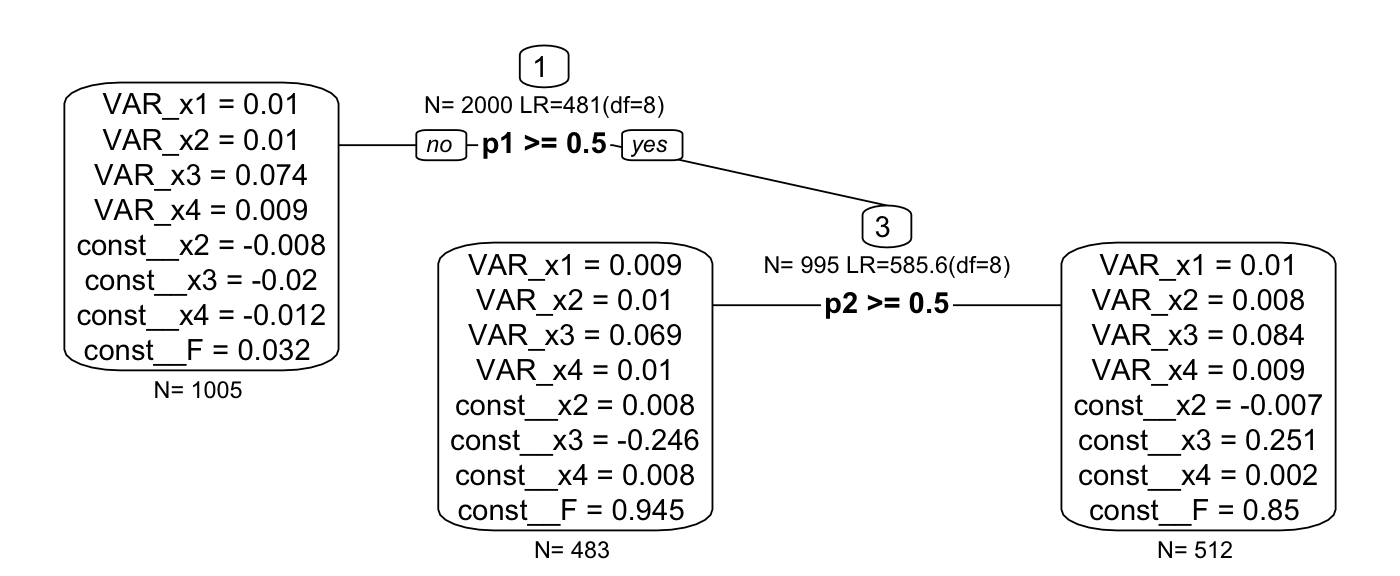
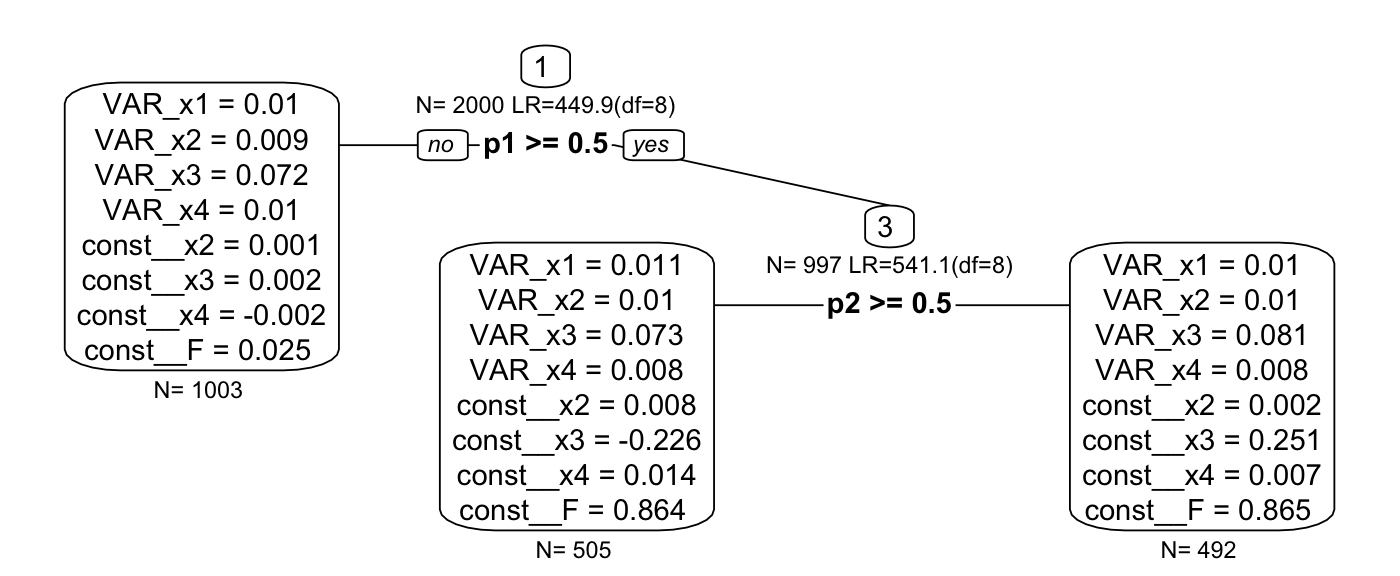
updated to predict delta in PA

diff --git a/docs/articles/score-based-tests.html b/docs/articles/score-based-tests.html
@@ -103,84 +103,86 @@
 <div class="sourceCode" id="cb1"><pre class="sourceCode r"><code class="sourceCode r"><span id="cb1-1"><a href="#cb1-1"></a><span class="kw"><a href="https://rdrr.io/r/base/library.html">library</a></span>(psychTools)</span>
 <span id="cb1-2"><a href="#cb1-2"></a><span class="kw"><a href="https://rdrr.io/r/utils/data.html">data</a></span>(affect)</span>
 <span id="cb1-3"><a href="#cb1-3"></a></span>
-<span id="cb1-4"><a href="#cb1-4"></a>affect<span class="op">$</span>Film &lt;-<span class="st"> </span><span class="kw"><a href="https://rdrr.io/r/base/factor.html">as.ordered</a></span>(affect<span class="op">$</span>Film)</span>
-<span id="cb1-5"><a href="#cb1-5"></a></span>
+<span id="cb1-4"><a href="#cb1-4"></a>affect<span class="op">$</span>Film &lt;-<span class="st"> </span><span class="kw"><a href="https://rdrr.io/r/base/factor.html">factor</a></span>(affect<span class="op">$</span>Film, <span class="dt">ordered =</span> <span class="ot">FALSE</span>, </span>
+<span id="cb1-5"><a href="#cb1-5"></a>                      <span class="dt">labels=</span><span class="kw"><a href="https://rdrr.io/r/base/c.html">c</a></span>(<span class="st">"Frontline"</span>, <span class="st">"Halloween"</span>, <span class="st">"Nat. Geographic"</span>,<span class="st">"Parenthood"</span>))</span>
 <span id="cb1-6"><a href="#cb1-6"></a></span>
-<span id="cb1-7"><a href="#cb1-7"></a>tree.data &lt;-<span class="st"> </span>affect[,<span class="kw"><a href="https://rdrr.io/r/base/c.html">c</a></span>(<span class="st">"state1"</span>,<span class="st">"Film"</span>,<span class="st">"neur"</span>,<span class="st">"ext"</span>,<span class="st">"lie"</span>,<span class="st">"traitanx"</span>,<span class="st">"PA1"</span>,<span class="st">"PA2"</span>)] </span>
-<span id="cb1-8"><a href="#cb1-8"></a><span class="co">#tree.data &lt;- affect[,c("state1","neur")] </span></span>
-<span id="cb1-9"><a href="#cb1-9"></a></span>
-<span id="cb1-10"><a href="#cb1-10"></a>knitr<span class="op">::</span><span class="kw"><a href="https://rdrr.io/pkg/knitr/man/kable.html">kable</a></span>(<span class="kw"><a href="https://rdrr.io/r/utils/head.html">head</a></span>(tree.data))</span></code></pre></div>
+<span id="cb1-7"><a href="#cb1-7"></a></span>
+<span id="cb1-8"><a href="#cb1-8"></a>tree.data &lt;-<span class="st"> </span>affect[,<span class="kw"><a href="https://rdrr.io/r/base/c.html">c</a></span>(<span class="st">"Film"</span>,<span class="st">"neur"</span>,<span class="st">"ext"</span>,<span class="st">"soc"</span>,<span class="st">"traitanx"</span>,<span class="st">"NA1"</span>,<span class="st">"PA1"</span>)] </span>
+<span id="cb1-9"><a href="#cb1-9"></a>tree.data<span class="op">$</span>DeltaPA &lt;-<span class="st"> </span>affect<span class="op">$</span>PA2<span class="op">-</span>affect<span class="op">$</span>PA1</span>
+<span id="cb1-10"><a href="#cb1-10"></a><span class="co">#tree.data &lt;- affect[,c("state1","neur")] </span></span>
+<span id="cb1-11"><a href="#cb1-11"></a></span>
+<span id="cb1-12"><a href="#cb1-12"></a>knitr<span class="op">::</span><span class="kw"><a href="https://rdrr.io/pkg/knitr/man/kable.html">kable</a></span>(<span class="kw"><a href="https://rdrr.io/r/utils/head.html">head</a></span>(tree.data))</span></code></pre></div>
 <table class="table">
 <thead><tr class="header">
-<th align="right">state1</th>
 <th align="left">Film</th>
 <th align="right">neur</th>
 <th align="right">ext</th>
-<th align="right">lie</th>
+<th align="right">soc</th>
 <th align="right">traitanx</th>
+<th align="right">NA1</th>
 <th align="right">PA1</th>
-<th align="right">PA2</th>
+<th align="right">DeltaPA</th>
 </tr></thead>
 <tbody>
 <tr class="odd">
-<td align="right">22</td>
-<td align="left">3</td>
+<td align="left">Nat. Geographic</td>
 <td align="right">9</td>
 <td align="right">18</td>
-<td align="right">3</td>
+<td align="right">10</td>
 <td align="right">24</td>
+<td align="right">2</td>
 <td align="right">26</td>
-<td align="right">7</td>
+<td align="right">-19</td>
 </tr>
 <tr class="even">
-<td align="right">40</td>
-<td align="left">3</td>
+<td align="left">Nat. Geographic</td>
 <td align="right">12</td>
 <td align="right">16</td>
-<td align="right">1</td>
+<td align="right">8</td>
 <td align="right">41</td>
+<td align="right">4</td>
 <td align="right">10</td>
-<td align="right">5</td>
+<td align="right">-5</td>
 </tr>
 <tr class="odd">
-<td align="right">44</td>
-<td align="left">3</td>
+<td align="left">Nat. Geographic</td>
 <td align="right">5</td>
 <td align="right">6</td>
-<td align="right">2</td>
+<td align="right">1</td>
 <td align="right">37</td>
+<td align="right">2</td>
 <td align="right">4</td>
-<td align="right">3</td>
+<td align="right">-1</td>
 </tr>
 <tr class="even">
-<td align="right">40</td>
-<td align="left">3</td>
+<td align="left">Nat. Geographic</td>
 <td align="right">15</td>
 <td align="right">12</td>
-<td align="right">3</td>
+<td align="right">6</td>
 <td align="right">54</td>
-<td align="right">1</td>
 <td align="right">0</td>
+<td align="right">1</td>
+<td align="right">-1</td>
 </tr>
 <tr class="odd">
-<td align="right">67</td>
-<td align="left">3</td>
+<td align="left">Nat. Geographic</td>
 <td align="right">2</td>
 <td align="right">14</td>
-<td align="right">3</td>
+<td align="right">6</td>
 <td align="right">39</td>
+<td align="right">13</td>
 <td align="right">7</td>
-<td align="right">16</td>
+<td align="right">9</td>
 </tr>
 <tr class="even">
-<td align="right">38</td>
-<td align="left">1</td>
+<td align="left">Frontline</td>
 <td align="right">15</td>
 <td align="right">6</td>
-<td align="right">5</td>
+<td align="right">4</td>
 <td align="right">51</td>
+<td align="right">1</td>
 <td align="right">5</td>
-<td align="right">2</td>
+<td align="right">-3</td>
 </tr>
 </tbody>
 </table>
@@ -193,7 +195,7 @@
 <span id="cb2-2"><a href="#cb2-2"></a><span class="co">#&gt; To take full advantage of multiple cores, use:</span></span>
 <span id="cb2-3"><a href="#cb2-3"></a><span class="co">#&gt;   mxOption(key='Number of Threads', value=parallel::detectCores()) #now</span></span>
 <span id="cb2-4"><a href="#cb2-4"></a><span class="co">#&gt;   Sys.setenv(OMP_NUM_THREADS=parallel::detectCores()) #before library(OpenMx)</span></span>
-<span id="cb2-5"><a href="#cb2-5"></a>manifests&lt;-<span class="kw"><a href="https://rdrr.io/r/base/c.html">c</a></span>(<span class="st">"state1"</span>)</span>
+<span id="cb2-5"><a href="#cb2-5"></a>manifests&lt;-<span class="kw"><a href="https://rdrr.io/r/base/c.html">c</a></span>(<span class="st">"DeltaPA"</span>)</span>
 <span id="cb2-6"><a href="#cb2-6"></a>latents&lt;-<span class="kw"><a href="https://rdrr.io/r/base/c.html">c</a></span>()</span>
 <span id="cb2-7"><a href="#cb2-7"></a>model &lt;-<span class="st"> </span><span class="kw"><a href="https://rdrr.io/pkg/OpenMx/man/mxModel.html">mxModel</a></span>(<span class="st">"Simple Model"</span>, </span>
 <span id="cb2-8"><a href="#cb2-8"></a><span class="dt">type=</span><span class="st">"RAM"</span>,</span>
@@ -210,28 +212,28 @@
 <span id="cb2-19"><a href="#cb2-19"></a><span class="co">#&gt; Summary of Simple Model </span></span>
 <span id="cb2-20"><a href="#cb2-20"></a><span class="co">#&gt;  </span></span>
 <span id="cb2-21"><a href="#cb2-21"></a><span class="co">#&gt; free parameters:</span></span>
-<span id="cb2-22"><a href="#cb2-22"></a><span class="co">#&gt;     name matrix    row    col  Estimate Std.Error A</span></span>
-<span id="cb2-23"><a href="#cb2-23"></a><span class="co">#&gt; 1 sigma2      S state1 state1 115.52726 8.9937424  </span></span>
-<span id="cb2-24"><a href="#cb2-24"></a><span class="co">#&gt; 2     mu      M      1 state1  40.83152 0.5916777  </span></span>
+<span id="cb2-22"><a href="#cb2-22"></a><span class="co">#&gt;     name matrix     row     col   Estimate Std.Error A</span></span>
+<span id="cb2-23"><a href="#cb2-23"></a><span class="co">#&gt; 1 sigma2      S DeltaPA DeltaPA 27.9030062 2.1722347  </span></span>
+<span id="cb2-24"><a href="#cb2-24"></a><span class="co">#&gt; 2     mu      M       1 DeltaPA  0.0951514 0.2907899  </span></span>
 <span id="cb2-25"><a href="#cb2-25"></a><span class="co">#&gt; </span></span>
 <span id="cb2-26"><a href="#cb2-26"></a><span class="co">#&gt; Model Statistics: </span></span>
 <span id="cb2-27"><a href="#cb2-27"></a><span class="co">#&gt;                |  Parameters  |  Degrees of Freedom  |  Fit (-2lnL units)</span></span>
-<span id="cb2-28"><a href="#cb2-28"></a><span class="co">#&gt;        Model:              2                    328              2503.837</span></span>
+<span id="cb2-28"><a href="#cb2-28"></a><span class="co">#&gt;        Model:              2                    328              2034.982</span></span>
 <span id="cb2-29"><a href="#cb2-29"></a><span class="co">#&gt;    Saturated:              2                    328                    NA</span></span>
 <span id="cb2-30"><a href="#cb2-30"></a><span class="co">#&gt; Independence:              2                    328                    NA</span></span>
 <span id="cb2-31"><a href="#cb2-31"></a><span class="co">#&gt; Number of observations/statistics: 330/330</span></span>
 <span id="cb2-32"><a href="#cb2-32"></a><span class="co">#&gt; </span></span>
 <span id="cb2-33"><a href="#cb2-33"></a><span class="co">#&gt; Information Criteria: </span></span>
 <span id="cb2-34"><a href="#cb2-34"></a><span class="co">#&gt;       |  df Penalty  |  Parameters Penalty  |  Sample-Size Adjusted</span></span>
-<span id="cb2-35"><a href="#cb2-35"></a><span class="co">#&gt; AIC:      1847.8366               2507.837                 2507.873</span></span>
-<span id="cb2-36"><a href="#cb2-36"></a><span class="co">#&gt; BIC:       601.7342               2515.435                 2509.091</span></span>
+<span id="cb2-35"><a href="#cb2-35"></a><span class="co">#&gt; AIC:      1378.9818               2038.982                 2039.018</span></span>
+<span id="cb2-36"><a href="#cb2-36"></a><span class="co">#&gt; BIC:       132.8794               2046.580                 2040.236</span></span>
 <span id="cb2-37"><a href="#cb2-37"></a><span class="co">#&gt; CFI: NA </span></span>
 <span id="cb2-38"><a href="#cb2-38"></a><span class="co">#&gt; TLI: 1   (also known as NNFI) </span></span>
 <span id="cb2-39"><a href="#cb2-39"></a><span class="co">#&gt; RMSEA:  0  [95% CI (NA, NA)]</span></span>
 <span id="cb2-40"><a href="#cb2-40"></a><span class="co">#&gt; Prob(RMSEA &lt;= 0.05): NA</span></span>
 <span id="cb2-41"><a href="#cb2-41"></a><span class="co">#&gt; To get additional fit indices, see help(mxRefModels)</span></span>
-<span id="cb2-42"><a href="#cb2-42"></a><span class="co">#&gt; timestamp: 2020-04-21 20:41:58 </span></span>
-<span id="cb2-43"><a href="#cb2-43"></a><span class="co">#&gt; Wall clock time: 0.06369591 secs </span></span>
+<span id="cb2-42"><a href="#cb2-42"></a><span class="co">#&gt; timestamp: 2020-04-21 21:15:18 </span></span>
+<span id="cb2-43"><a href="#cb2-43"></a><span class="co">#&gt; Wall clock time: 0.05217218 secs </span></span>
 <span id="cb2-44"><a href="#cb2-44"></a><span class="co">#&gt; optimizer:  CSOLNP </span></span>
 <span id="cb2-45"><a href="#cb2-45"></a><span class="co">#&gt; OpenMx version number: 2.17.3 </span></span>
 <span id="cb2-46"><a href="#cb2-46"></a><span class="co">#&gt; Need help?  See help(mxSummary)</span></span></code></pre></div>
@@ -243,10 +245,21 @@
 <div class="sourceCode" id="cb3"><pre class="sourceCode r"><code class="sourceCode r"><span id="cb3-1"><a href="#cb3-1"></a><span class="kw"><a href="https://rdrr.io/r/base/library.html">library</a></span>(semtree)</span>
 <span id="cb3-2"><a href="#cb3-2"></a>ctrl =<span class="st"> </span><span class="kw"><a href="../reference/semtree.control.html">semtree.control</a></span>(<span class="dt">method=</span><span class="st">"score"</span>, <span class="dt">bonferroni =</span> <span class="ot">TRUE</span>)</span>
 <span id="cb3-3"><a href="#cb3-3"></a>tree =<span class="st"> </span><span class="kw"><a href="../reference/semtree.html">semtree</a></span>(<span class="dt">model=</span>result, <span class="dt">data=</span>tree.data, <span class="dt">control=</span>ctrl)</span>
-<span id="cb3-4"><a href="#cb3-4"></a><span class="co">#&gt; ✔ Tree construction finished [took 4s].</span></span></code></pre></div>
+<span id="cb3-4"><a href="#cb3-4"></a><span class="co">#&gt; ✔ Tree construction finished [took 2s].</span></span></code></pre></div>
 <p>Now let us plot the tree. We obtained a tree with two major predictors <code>neur</code> and <code>traitanx</code>.</p>
 <div class="sourceCode" id="cb4"><pre class="sourceCode r"><code class="sourceCode r"><span id="cb4-1"><a href="#cb4-1"></a><span class="kw"><a href="https://rdrr.io/r/graphics/plot.html">plot</a></span>(tree)</span></code></pre></div>
 <p><img src="score-based-tests_files/figure-html/unnamed-chunk-5-1.png" width="75%"></p>
+<p>Implied mixture model:</p>
+<div class="sourceCode" id="cb5"><pre class="sourceCode r"><code class="sourceCode r"><span id="cb5-1"><a href="#cb5-1"></a>normals &lt;-<span class="st"> </span><span class="kw"><a href="https://rdrr.io/r/base/apply.html">apply</a></span>(semtree<span class="op">::</span><span class="kw"><a href="https://rdrr.io/pkg/semtree/man/getTerminalNodes.html">getTerminalNodes</a></span>(tree),<span class="dv">1</span>,<span class="cf">function</span>(x){  ggplot2<span class="op">::</span><span class="kw"><a href="https://ggplot2.tidyverse.org/reference/stat_function.html">stat_function</a></span>(<span class="dt">fun =</span> dnorm, <span class="dt">n =</span> <span class="dv">101</span>, <span class="dt">col=</span><span class="st">"black"</span>, <span class="dt">args =</span> <span class="kw"><a href="https://rdrr.io/r/base/list.html">list</a></span>(<span class="dt">mean =</span> x[<span class="dv">2</span>], <span class="dt">sd =</span> <span class="kw"><a href="https://rdrr.io/r/base/MathFun.html">sqrt</a></span>(x[<span class="dv">1</span>]))) })</span>
+<span id="cb5-2"><a href="#cb5-2"></a><span class="co">#&gt; Registered S3 method overwritten by 'ggplot2':</span></span>
+<span id="cb5-3"><a href="#cb5-3"></a><span class="co">#&gt;   method        from</span></span>
+<span id="cb5-4"><a href="#cb5-4"></a><span class="co">#&gt;   print.element sets</span></span>
+<span id="cb5-5"><a href="#cb5-5"></a></span>
+<span id="cb5-6"><a href="#cb5-6"></a>pl &lt;-<span class="st"> </span>ggplot2<span class="op">::</span><span class="kw"><a href="https://ggplot2.tidyverse.org/reference/ggplot.html">ggplot</a></span>(<span class="dt">data =</span> <span class="kw"><a href="https://rdrr.io/r/base/data.frame.html">data.frame</a></span>(<span class="dt">x =</span> <span class="kw"><a href="https://rdrr.io/r/base/c.html">c</a></span>(<span class="op">-</span><span class="dv">10</span>, <span class="dv">30</span>)), ggplot2<span class="op">::</span><span class="kw"><a href="https://ggplot2.tidyverse.org/reference/aes.html">aes</a></span>(x))</span>
+<span id="cb5-7"><a href="#cb5-7"></a><span class="cf">for</span> (n <span class="cf">in</span> normals) pl &lt;-<span class="st"> </span>pl <span class="op">+</span><span class="st"> </span>n</span>
+<span id="cb5-8"><a href="#cb5-8"></a></span>
+<span id="cb5-9"><a href="#cb5-9"></a><span class="kw"><a href="https://rdrr.io/r/graphics/plot.html">plot</a></span>(pl)</span></code></pre></div>
+<p><img src="score-based-tests_files/figure-html/unnamed-chunk-6-1.png" width="2187.5"></p>
 </div>
   </div>
 

diff --git a/docs/index.html b/docs/index.html
@@ -114,8 +114,9 @@
 <div id="usage" class="section level2">
 <h2 class="hasAnchor">
 <a href="#usage" class="anchor"></a>Usage</h2>
-<p>Please see official semtree website: <a href="http://brandmaier.de/semtree" class="uri">http://brandmaier.de/semtree</a></p>
-<p>Package vignettes contain documentation on how to use the package:</p>
+<p>Package documentation and use-cases with runnable R code can be found on our github pages: <a href="https://brandmaier.github.io/semtree/" class="uri">https://brandmaier.github.io/semtree/</a>.</p>
+<p>You may also want to visit the semtree website: <a href="http://brandmaier.de/semtree" class="uri">http://brandmaier.de/semtree</a></p>
+<p>Package vignettes (shipped with the package) contain documentation on how to use the package. Simply type this in R once you have loaded the package:</p>
 <div class="sourceCode" id="cb3"><pre class="sourceCode R"><code class="sourceCode r"><span id="cb3-1"><a href="#cb3-1"></a><span class="kw"><a href="https://rdrr.io/r/utils/browseVignettes.html">browseVignettes</a></span>(<span class="st">"semtree"</span>)</span></code></pre></div>
 </div>
 <div id="references" class="section level2">
@@ -127,7 +128,7 @@
 <p>Brandmaier, A. M., von Oertzen, T., McArdle, J. J., &amp; Lindenberger, U. (2014). Exploratory data mining with structural equation model trees. In J. J. McArdle &amp; G. Ritschard (Eds.), Contemporary issues in exploratory data mining in the behavioral sciences (pp. 96-127). New York: Routledge.</p>
 <p>Brandmaier, A. M., von Oertzen, T., McArdle, J. J., &amp; Lindenberger, U. (2013). Structural equation model trees. Psychological Methods, 18, 71-86.</p>
 <p>Applied examples:</p>
-<p>Brandmaier, A. M., Ram, N., Wagner, G. G., &amp; Gerstorf, D. (in press). Terminal decline in well-being: The role of multi-indicator constellations of physical health and psychosocial correlates. Developmental Psychology.</p>
+<p>Brandmaier, A. M., Ram, N., Wagner, G. G., &amp; Gerstorf, D. (2017). Terminal decline in well-being: The role of multi-indicator constellations of physical health and psychosocial correlates. Developmental Psychology.</p>
 </div>
 </div>
   </div>

diff --git a/docs/articles/constraints.html b/docs/articles/constraints.html
@@ -250,8 +250,8 @@
 <span id="cb10-27"><a href="#cb10-27"></a><span class="co">#&gt; RMSEA:  0  [95% CI (NA, NA)]</span></span>
 <span id="cb10-28"><a href="#cb10-28"></a><span class="co">#&gt; Prob(RMSEA &lt;= 0.05): NA</span></span>
 <span id="cb10-29"><a href="#cb10-29"></a><span class="co">#&gt; To get additional fit indices, see help(mxRefModels)</span></span>
-<span id="cb10-30"><a href="#cb10-30"></a><span class="co">#&gt; timestamp: 2020-04-21 20:41:26 </span></span>
-<span id="cb10-31"><a href="#cb10-31"></a><span class="co">#&gt; Wall clock time: 0.01606894 secs </span></span>
+<span id="cb10-30"><a href="#cb10-30"></a><span class="co">#&gt; timestamp: 2020-04-21 21:14:51 </span></span>
+<span id="cb10-31"><a href="#cb10-31"></a><span class="co">#&gt; Wall clock time: 0.01590204 secs </span></span>
 <span id="cb10-32"><a href="#cb10-32"></a><span class="co">#&gt; optimizer:  CSOLNP </span></span>
 <span id="cb10-33"><a href="#cb10-33"></a><span class="co">#&gt; OpenMx version number: 2.17.3 </span></span>
 <span id="cb10-34"><a href="#cb10-34"></a><span class="co">#&gt; Need help?  See help(mxSummary)</span></span></code></pre></div>

diff --git a/docs/reference/evaluateDataLikelihood.html b/docs/reference/evaluateDataLikelihood.html
@@ -217,7 +217,7 @@
 #&gt;     result &lt;- OpenMx::mxEval(objective, run)
 #&gt;     return(result)
 #&gt;   }
-#&gt; &lt;environment: 0x7f969ec08ed8&gt;</div></pre>
+#&gt; &lt;environment: 0x7fd55d25ce38&gt;</div></pre>
   </div>
   <div class="col-md-3 hidden-xs hidden-sm" id="sidebar">
     <h2>Contents</h2>
